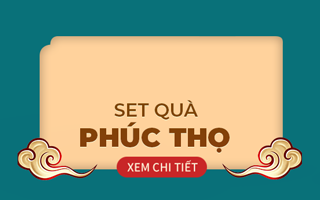
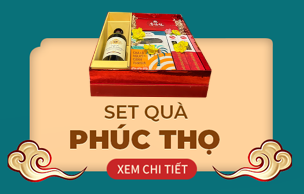
Update gift set

diff --git a/src/components/common/PopupEight.js b/src/components/common/PopupEight.js
@@ -7,14 +7,14 @@ const PopupEight = () => {
     <>
       {showEight ? (
         <div className="overlay">
-          <div className="bg-[#5B9F8C] rounded-[20px] w-[320px] md:w-[833px] relative flex flex-col md:flex-row items-end mt-[40px] md:mt-[60px] z-[10]">
+          <div className="bg-[#FC9734] rounded-[20px] w-[320px] md:w-[833px] relative flex flex-col md:flex-row items-end mt-[40px] md:mt-[60px] z-[10]">
             <div className="absolute top-[-50px] md:top-[-80px] left-[-30px] md:left-[-56px] w-[200px] md:w-auto">
               <img srcSet="/images/decor1.png 2x" alt="" />
             </div>
             <div className="absolute bottom-[-30px] right-[-40px] md:bottom-[-45px] md:right-[-85px] w-[150px] md:w-auto">
               <img srcSet="/images/decor2.png 2x" alt="" />
             </div>
-            <div className="pt-[80px] pb-[20px] md:pb-[30px] pl-[28px]">
+            <div className="pt-[80px] pb-[20px] md:pb-[30px] pl-[28px] flex-1">
               <p className="text-[14px] md:text-[18px]">
                 <span className="text-[24px] md:text-[36px] leading-[1] md:inline-block hidden">
                   GIÁ CỦA SET QUÀ
@@ -45,7 +45,11 @@ const PopupEight = () => {
               </div>
             </div>
             <div className="pt-[30px] md:block hidden">
-              <img src="/images/gift.png" alt="" />
+              <img
+                className="w-[350px] h-[480px]"
+                srcSet="/images/mirador.png 2x"
+                alt=""
+              />
             </div>
             <div
               className="absolute bottom-[-80px] md:bottom-[-125px] left-[50%] translate-x-[-50%] cursor-pointer h-[80px] md:h-auto"

diff --git a/src/components/common/PopupSeven.js b/src/components/common/PopupSeven.js
@@ -7,14 +7,14 @@ const PopupSeven = () => {
     <>
       {showSeven ? (
         <div className="overlay">
-          <div className="bg-[#660C07] rounded-[20px] w-[320px] md:w-[833px] relative flex flex-col md:flex-row items-end mt-[40px] md:mt-[60px] z-[10]">
+          <div className="bg-[#10886B] rounded-[20px] w-[320px] md:w-[833px] relative flex flex-col md:flex-row items-end mt-[40px] md:mt-[60px] z-[10]">
             <div className="absolute top-[-50px] md:top-[-80px] left-[-30px] md:left-[-56px] w-[200px] md:w-auto">
               <img srcSet="/images/decor1.png 2x" alt="" />
             </div>
             <div className="absolute bottom-[-30px] right-[-40px] md:bottom-[-45px] md:right-[-85px] w-[150px] md:w-auto">
               <img srcSet="/images/decor2.png 2x" alt="" />
             </div>
-            <div className="pt-[80px] pb-[20px] md:pb-[30px] pl-[28px]">
+            <div className="pt-[80px] pb-[20px] md:pb-[30px] pl-[28px] flex-1">
               <p className="text-[14px] md:text-[18px]">
                 <span className="text-[24px] md:text-[36px] leading-[1] md:inline-block hidden">
                   GIÁ CỦA SET QUÀ
@@ -44,7 +44,11 @@ const PopupSeven = () => {
               </div>
             </div>
             <div className="pt-[30px] md:block hidden">
-              <img src="/images/gift.png" alt="" />
+              <img
+                className="w-[350px] h-[480px]"
+                srcSet="/images/caocap.png 2x"
+                alt=""
+              />
             </div>
             <div
               className="absolute bottom-[-80px] md:bottom-[-125px] left-[50%] translate-x-[-50%] cursor-pointer h-[80px] md:h-auto"

diff --git a/src/components/common/PopupNine.js b/src/components/common/PopupNine.js
@@ -7,14 +7,14 @@ const PopupNine = () => {
     <>
       {showNine ? (
         <div className="overlay">
-          <div className="bg-[#264271] rounded-[20px] w-[320px] md:w-[833px] relative flex flex-col md:flex-row items-end mt-[40px] md:mt-[60px] z-[10]">
+          <div className="bg-[#572F0B] rounded-[20px] w-[320px] md:w-[833px] relative flex flex-col md:flex-row items-end mt-[40px] md:mt-[60px] z-[10]">
             <div className="absolute top-[-50px] md:top-[-80px] left-[-30px] md:left-[-56px] w-[200px] md:w-auto">
               <img srcSet="/images/decor1.png 2x" alt="" />
             </div>
             <div className="absolute bottom-[-30px] right-[-40px] md:bottom-[-45px] md:right-[-85px] w-[150px] md:w-auto">
               <img srcSet="/images/decor2.png 2x" alt="" />
             </div>
-            <div className="pt-[80px] pb-[20px] md:pb-[30px] pl-[28px]">
+            <div className="pt-[80px] pb-[20px] md:pb-[30px] pl-[28px] flex-1">
               <p className="text-[14px] md:text-[18px]">
                 <span className="text-[24px] md:text-[36px] leading-[1] md:inline-block hidden">
                   GIÁ CỦA SET QUÀ
@@ -45,7 +45,11 @@ const PopupNine = () => {
               </div>
             </div>
             <div className="pt-[30px] md:block hidden">
-              <img src="/images/gift.png" alt="" />
+              <img
+                className="w-[350px] h-[480px]"
+                srcSet="/images/goru.png 2x"
+                alt=""
+              />
             </div>
             <div
               className="absolute bottom-[-80px] md:bottom-[-125px] left-[50%] translate-x-[-50%] cursor-pointer h-[80px] md:h-auto"

diff --git a/src/components/common/PopupThree.js b/src/components/common/PopupThree.js
@@ -7,14 +7,14 @@ const PopupThree = () => {
     <>
       {showThree ? (
         <div className="overlay">
-          <div className="bg-[#D60D45] rounded-[20px] w-[320px] md:w-[833px] relative flex flex-col md:flex-row items-end mt-[40px] md:mt-[60px] z-[10]">
+          <div className="bg-[#D60D45] rounded-[20px] w-[320px] md:w-[833px] relative flex flex-col md:flex-row mt-[40px] md:mt-[60px] z-[10] items-center">
             <div className="absolute top-[-50px] md:top-[-80px] left-[-30px] md:left-[-56px] w-[200px] md:w-auto">
               <img srcSet="/images/decor1.png 2x" alt="" />
             </div>
             <div className="absolute bottom-[-30px] right-[-40px] md:bottom-[-45px] md:right-[-85px] w-[150px] md:w-auto">
               <img srcSet="/images/decor2.png 2x" alt="" />
             </div>
-            <div className="pt-[80px] pb-[20px] md:pb-[30px] pl-[28px]">
+            <div className="pt-[80px] pb-[20px] md:pb-[30px] pl-[28px] flex-1">
               <p className="text-[14px] md:text-[18px]">
                 <span className="text-[24px] md:text-[36px] leading-[1] md:inline-block hidden">
                   GIÁ CỦA SET QUÀ
@@ -45,7 +45,11 @@ const PopupThree = () => {
               </div>
             </div>
             <div className="pt-[30px] md:block hidden">
-              <img src="/images/gift.png" alt="" />
+              <img
+                className="w-[350px]"
+                srcSet="/images/tailoc.png 2x"
+                alt=""
+              />
             </div>
             <div
               className="absolute bottom-[-80px] md:bottom-[-125px] left-[50%] translate-x-[-50%] cursor-pointer h-[80px] md:h-auto"

diff --git a/src/components/common/PopupSix.js b/src/components/common/PopupSix.js
@@ -14,7 +14,7 @@ const PopupSix = () => {
             <div className="absolute bottom-[-30px] right-[-40px] md:bottom-[-45px] md:right-[-85px] w-[150px] md:w-auto">
               <img srcSet="/images/decor2.png 2x" alt="" />
             </div>
-            <div className="pt-[80px] pb-[20px] md:pb-[30px] pl-[28px]">
+            <div className="pt-[80px] pb-[20px] md:pb-[30px] pl-[28px] flex-1">
               <p className="text-[14px] md:text-[18px]">
                 <span className="text-[24px] md:text-[36px] leading-[1] md:inline-block hidden">
                   GIÁ CỦA SET QUÀ
@@ -44,7 +44,11 @@ const PopupSix = () => {
               </div>
             </div>
             <div className="pt-[30px] md:block hidden">
-              <img src="/images/gift.png" alt="" />
+              <img
+                className="w-[350px] h-[480px]"
+                srcSet="/images/tetthinhvuong.png 2x"
+                alt=""
+              />
             </div>
             <div
               className="absolute bottom-[-80px] md:bottom-[-125px] left-[50%] translate-x-[-50%] cursor-pointer h-[80px] md:h-auto"

diff --git a/src/components/common/PopupTwo.js b/src/components/common/PopupTwo.js
@@ -14,7 +14,7 @@ const PopupTwo = () => {
             <div className="absolute bottom-[-30px] right-[-40px] md:bottom-[-45px] md:right-[-85px] w-[150px] md:w-auto">
               <img srcSet="/images/decor2.png 2x" alt="" />
             </div>
-            <div className="pt-[80px] pb-[20px] md:pb-[30px] pl-[28px]">
+            <div className="pt-[80px] pb-[20px] md:pb-[30px] pl-[28px] flex-1">
               <p className="text-[14px] md:text-[18px]">
                 <span className="text-[24px] md:text-[36px] leading-[1] md:inline-block hidden">
                   GIÁ CỦA SET QUÀ
@@ -49,7 +49,11 @@ const PopupTwo = () => {
               </div>
             </div>
             <div className="pt-[30px] md:block hidden">
-              <img src="/images/gift.png" alt="" />
+              <img
+                className="w-[350px] h-[480px]"
+                srcSet="/images/tanxuan.png 2x"
+                alt=""
+              />
             </div>
             <div
               className="absolute bottom-[-80px] md:bottom-[-100px] left-[50%] translate-x-[-50%] cursor-pointer h-[80px] md:h-[100px]"

diff --git a/src/components/common/PopupFive.js b/src/components/common/PopupFive.js
@@ -14,7 +14,7 @@ const PopupFive = () => {
             <div className="absolute bottom-[-30px] right-[-40px] md:bottom-[-45px] md:right-[-85px] w-[150px] md:w-auto">
               <img srcSet="/images/decor2.png 2x" alt="" />
             </div>
-            <div className="pt-[80px] pb-[20px] md:pb-[30px] pl-[28px]">
+            <div className="pt-[80px] pb-[20px] md:pb-[30px] pl-[28px] flex-1">
               <p className="text-[14px] md:text-[18px]">
                 <span className="text-[24px] md:text-[36px] leading-[1] md:inline-block hidden">
                   GIÁ CỦA SET QUÀ
@@ -44,7 +44,11 @@ const PopupFive = () => {
               </div>
             </div>
             <div className="pt-[30px] md:block hidden">
-              <img src="/images/gift.png" alt="" />
+              <img
+                className="w-[350px] h-[480px]"
+                srcSet="/images/phuctho.png 2x"
+                alt=""
+              />
             </div>
             <div
               className="absolute bottom-[-80px] md:bottom-[-125px] left-[50%] translate-x-[-50%] cursor-pointer h-[80px] md:h-auto"

diff --git a/src/components/common/PopupFour.js b/src/components/common/PopupFour.js
@@ -14,7 +14,7 @@ const PopupFour = () => {
             <div className="absolute bottom-[-30px] right-[-40px] md:bottom-[-45px] md:right-[-85px] w-[150px] md:w-auto">
               <img srcSet="/images/decor2.png 2x" alt="" />
             </div>
-            <div className="pt-[80px] pb-[20px] md:pb-[30px] pl-[28px]">
+            <div className="pt-[80px] pb-[20px] md:pb-[30px] pl-[28px] flex-1">
               <p className="text-[14px] md:text-[18px]">
                 <span className="text-[24px] md:text-[36px] leading-[1] md:inline-block hidden">
                   GIÁ CỦA SET QUÀ
@@ -44,7 +44,11 @@ const PopupFour = () => {
               </div>
             </div>
             <div className="pt-[30px] md:block hidden">
-              <img src="/images/gift.png" alt="" />
+              <img
+                className="w-[350px] h-[480px]"
+                srcSet="/images/ankhang.png 2x"
+                alt=""
+              />
             </div>
             <div
               className="absolute bottom-[-80px] md:bottom-[-125px] left-[50%] translate-x-[-50%] cursor-pointer h-[80px] md:h-auto"

diff --git a/src/components/common/PopupOne.js b/src/components/common/PopupOne.js
@@ -14,7 +14,7 @@ const PopupOne = () => {
             <div className="absolute bottom-[-30px] right-[-40px] md:bottom-[-45px] md:right-[-85px] w-[150px] md:w-auto">
               <img srcSet="/images/decor2.png 2x" alt="" />
             </div>
-            <div className="pt-[80px] pb-[20px] md:pb-[30px] pl-[28px]">
+            <div className="pt-[80px] pb-[20px] md:pb-[30px] pl-[28px] flex-1">
               <p className="text-[14px] md:text-[18px]">
                 <span className="text-[24px] md:text-[36px] leading-[1] md:inline-block hidden">
                   GIÁ CỦA SET QUÀ
@@ -45,7 +45,11 @@ const PopupOne = () => {
               </div>
             </div>
             <div className="pt-[30px] md:block hidden">
-              <img src="/images/gift.png" alt="" />
+              <img
+                className="w-[350px] h-[480px]"
+                srcSet="/images/phuquy.png 2x"
+                alt=""
+              />
             </div>
             <div
               className="absolute bottom-[-80px] md:bottom-[-125px] left-[50%] translate-x-[-50%] cursor-pointer h-[80px] md:h-auto"
